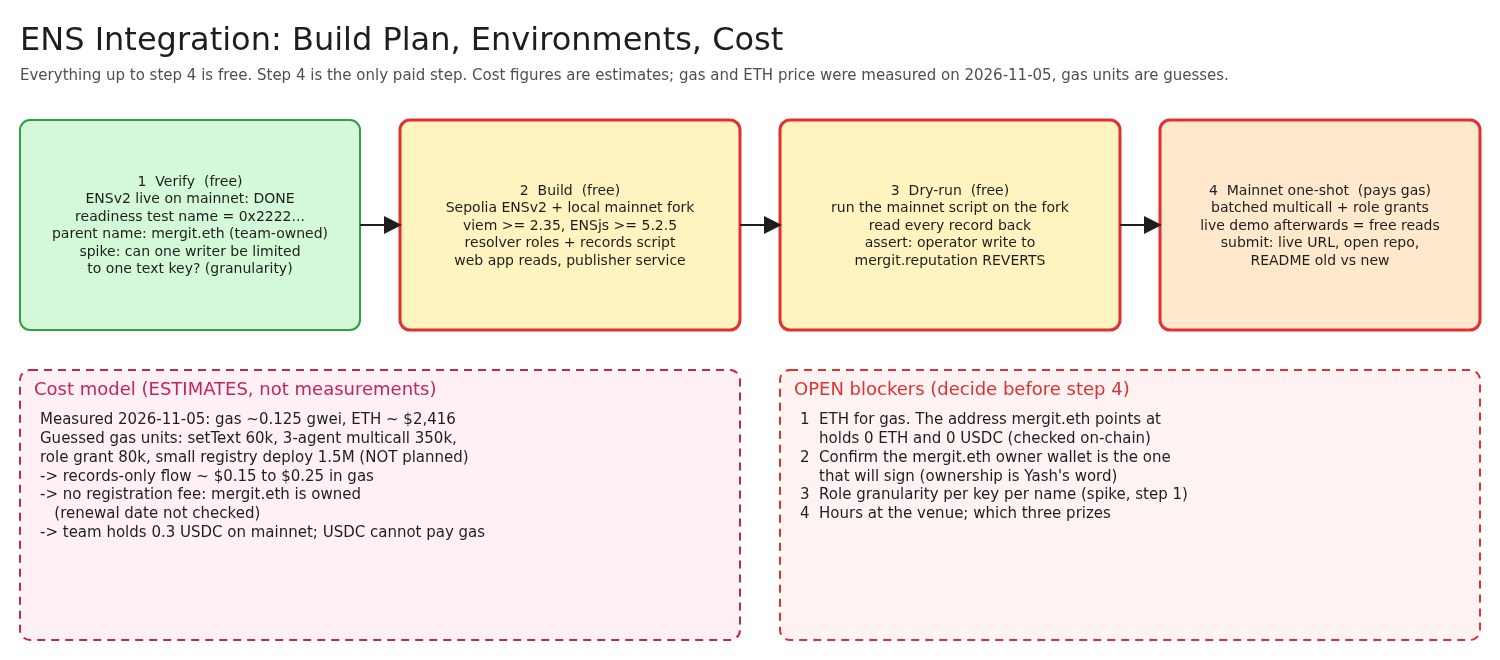
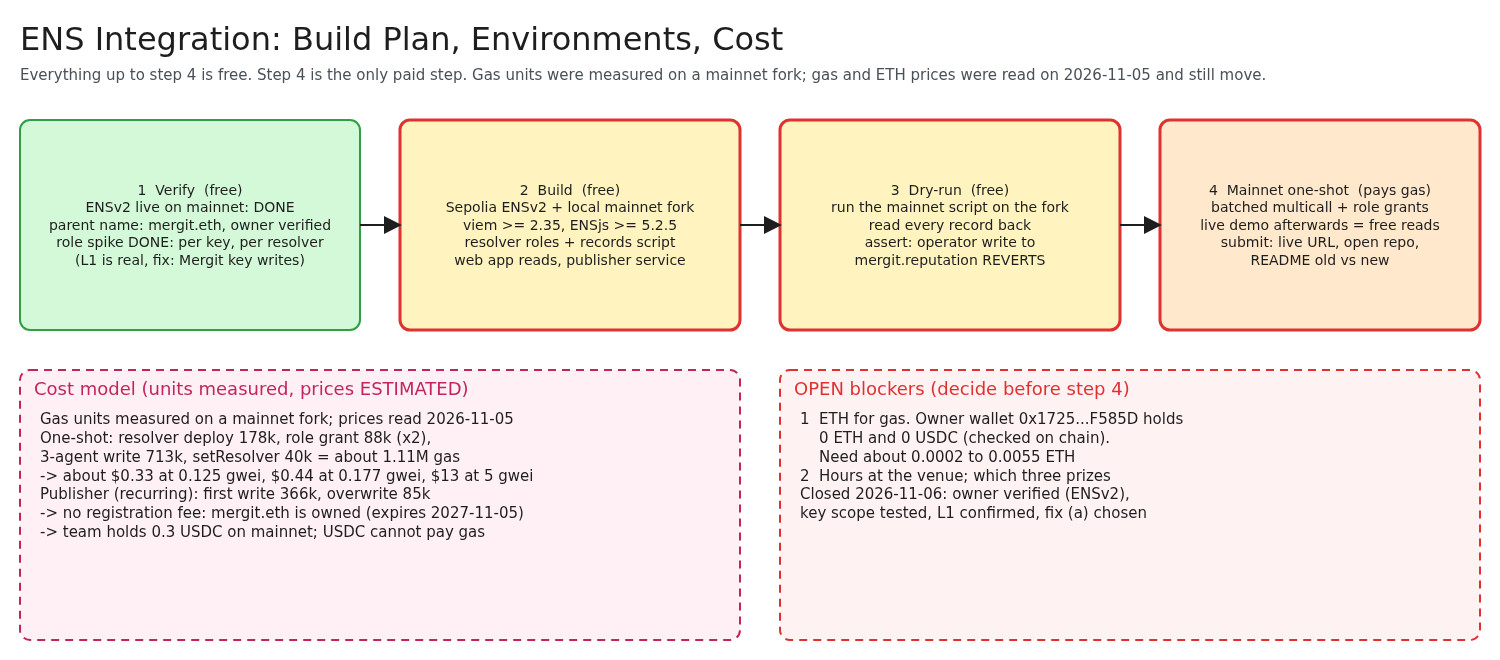
docs(ens): record M0/M1 results; close O1 and O3, confirm L1, choose fix (a)

diff --git a/docs/HLD-ens-integration.md b/docs/HLD-ens-integration.md
@@ -56,11 +56,11 @@ Settlement and receipts stay on Base Sepolia with test USDC. ENS runs on Ethereu
 | # | Decision | Status | Why |
 | --- | --- | --- | --- |
 | E1 | Settlement stays on Base Sepolia, test USDC. ENS is the only mainnet component. | **Locked** | The v0 spec is testnet-only for money. |
-| E2 | Parent name is `mergit.eth`, owned by the team wallet. | **Locked** (per Yash, 2026-11-05). Owner wallet **not verified on chain** by this document | Removes the name-registration fee and the biggest blocker. |
-| E3 | Subnames use the **records-only** design: one Permissioned Resolver on the parent holds every agent's records. No per-agent tokens, no registry contract deployed. | **Proposed** | Cheapest on mainnet, no Solidity of our own to audit, still uses ENSv2 per-record permissions. |
+| E2 | Parent name is `mergit.eth`, owned by the team wallet. | **Locked** (per Yash, 2026-11-05). Owner address read on chain (section 13); that the team holds the key is not checkable on chain | Removes the name-registration fee and the biggest blocker. |
+| E3 | Subnames use the **records-only** design: one Permissioned Resolver on the parent holds every agent's records. No per-agent tokens, no registry contract deployed. | **Proposed**. Resolution tested on a mainnet fork: a record on `coder-0.mergit.eth` resolves through the ENSv2 Universal Resolver once `mergit.eth` points at the resolver (`ens/test/resolution.test.ts`) | Cheapest on mainnet, no Solidity of our own to audit, still uses ENSv2 per-record permissions. |
 | E4 | The registration JSON for each agent is hosted at an editable HTTPS URL. | **Proposed** | The Identity contract has no `setAgentURI`. The URL is fixed at `registerAgent`, so the content must stay editable. |
 | E5 | Reputation on ENS is a **labelled mirror** of `ReputationAnchor`, never the source of truth. Only tier 0 (staked) outcomes are counted. | **Proposed** | Invariants 4 and 6. See section 7. |
-| E6 | One hot key (the "publisher") may write the single record `mergit.reputation`. No other writer can. | **Proposed**, depends on O1 | The enforcement of invariant 4 at the record level. |
+| E6 | One hot key (the "publisher") may write the single record `mergit.reputation`. No other writer can. | **Proposed**. O1 closed: a role limited to the key `mergit.reputation` works (`ens/roles-report.txt`) | The enforcement of invariant 4 at the record level. |
 | E7 | The owned-token registry per agent is a stretch goal, not part of the core plan. | **Proposed** | Roughly $0.45 of gas by estimate, more code, ENS's own tutorial calls its registrar unaudited. |
 | E8 | The ENS part contains no Solidity of ours. | **Proposed** | Follows from E3. |
 | E9 | Agents registered before the URL scheme exists (agent #1 on Base Sepolia, empty URL) are not linked. New agents are registered for the demo. | **Locked** | The Identity contract cannot change a URL after registration. |
@@ -91,8 +91,8 @@ Subnames take the form `<label>.mergit.eth`, for example `coder-0.mergit.eth`. T
 | Key | Standard | Value | Who may write it |
 | --- | --- | --- | --- |
 | `agent-registration[<ERC-7930 Identity address>][<agentId>]` | ENSIP-25 (draft) | `"1"` (any non-empty value counts) | Mergit admin (parent owner) |
-| `agent-context` | ENSIP-26 (draft) | Markdown text describing the agent and how to use it | Operator |
-| `agent-endpoint[web]` | ENSIP-26 (draft) | URL of the agent's profile page | Operator |
+| `agent-context` | ENSIP-26 (draft) | Markdown text describing the agent and how to use it | Mergit editor key, on the operator's request (O9, option (a)) |
+| `agent-endpoint[web]` | ENSIP-26 (draft) | URL of the agent's profile page | Mergit editor key, on the operator's request (O9, option (a)) |
 | `mergit.reputation` | Mergit-defined (not a standard) | JSON mirror, see 6.3 | Publisher key only |
 
 For the Mergit Identity contract on Base Sepolia, the ERC-7930 encoding of `0x72eAc041Ee897fF0385022639452fE08Dcd4B7D6` on chain 84532 is:
@@ -127,11 +127,12 @@ The full key for agent `N` is `agent-registration[0x0001000003014a341472eac041ee
 
 ## 7. Permission model and invariants
 
-Three kinds of account touch the resolver. ENSv2 Enhanced Access Control grants roles per resolver and, according to the ENS docs, can scope a role to a specific text key.
+Four kinds of account touch the resolver. ENSv2 Enhanced Access Control grants roles per resolver and, according to the ENS docs, can scope a role to a specific text key.
 
 | Account | May write | Must not write |
 | --- | --- | --- |
-| Operator (agent owner) | `agent-context`, `agent-endpoint[...]` | `mergit.reputation`, `agent-registration[...]` |
+| Operator (agent owner) | Nothing directly. Asks Mergit to edit (O9, option (a)) | Every record |
+| Mergit editor key | `agent-context`, `agent-endpoint[...]`, after checking the requester owns the agent | `mergit.reputation`, `agent-registration[...]` |
 | Mergit admin (`mergit.eth` owner) | `agent-registration[...]`, role grants | Day-to-day reputation |
 | Publisher key | `mergit.reputation` only | Everything else |
 
@@ -144,20 +145,22 @@ How this maps to the repository invariants:
 | 7. No credential reachable from a model-populated tool argument | The publisher key lives with the chain gateway's secrets, resolved through the broker, never in a place a prompt reaches. Where it is stored is **Open** (O7). |
 | "No number presented as measured" | Section 6.3. Counts, block number, labelled mirror. |
 
-**Open (O1):** the ENS docs say roles can be scoped "to all records or specific text keys", and that to limit a writer to certain names you use a separate resolver instance. The exact granularity (per key across all names on a resolver, or per key per name) is not fully specified in the pages read. The design needs "publisher can write only `mergit.reputation`". This is the first spike. If it cannot be done, the fallback is a second resolver instance dedicated to the publisher's record, which changes the layout in the diagram.
+**Closed (O1), tested on a mainnet fork on 2026-11-06:** roles on the deployed resolver are scoped **per text key and per resolver, not per name**. The publisher can be limited to the key `mergit.reputation` and then writes it on every name, and nothing else (`ens/test/roles.test.ts`, evidence in `ens/roles-report.txt`). The fallback of a second resolver for the publisher is not needed. The same per-resolver scope is why L1 is real. The API of the deployed resolver, taken from its verified source on Sourcify, takes DNS-encoded names (`setText(bytes name, string key, string value)`) and grants key roles with `grantSetterRoles(bytes setter, address account)`. The GitHub `main` source of `PermissionedResolver` (`authorizeTextRoles`, per-name roles) is a different design (its relation to the deployed version was not checked) and is **not** what is deployed on mainnet.
 
 ### 7.1 Known limitations
 
 The current design does not close these. They are stated here so nobody reads it as stronger than it is.
 
-**L1. One operator may be able to edit another operator's agent (Open, not tested).** All agent names share one resolver (E3). The table above lets each operator write `agent-endpoint[...]` and `agent-context`. If ENS scopes that permission to the key across the whole resolver, and not to one name (the granularity question in O1), then operator Alice, who owns `coder-0`, could also change the endpoint of `coder-1`, which belongs to Bob. She could point Bob's agent at her own server and take his work. That is the false modification this layer is meant to prevent. The same reasoning applies to `agent-context`. Two ways to close it (decision O9):
+**L1. One operator can edit another operator's agent (Confirmed on a mainnet fork, 2026-11-06).** All agent names share one resolver (E3). ENS scopes a key role to the whole resolver, not to one name. The test `L1: a key role is per resolver, not per name` shows operator Alice, given `agent-endpoint[web]`, overwriting the endpoint of `coder-1`, which belongs to Bob. She could point Bob's agent at her own server and take his work. That is the false modification this layer is meant to prevent. The same reasoning applies to `agent-context`. Two ways to close it:
 
 - (a) Simplest: operators get no direct edit permission. They ask Mergit, and Mergit's key writes the record after checking that the requester owns that agent (`operatorOf(N)` on Base; the function name comes from the design note, so confirm it against `Identity.sol`).
 - (b) Give each operator their own resolver. This needs real registered subnames, so it is more work.
 
-Test first. It is one free test on Sepolia: Alice tries to edit Bob's agent, and the test expects the edit to fail. If it fails, nothing needs fixing and L1 is closed.
+**Decision (O9): option (a).** Operators hold no role. Mergit's editor key holds the two keys `agent-context` and `agent-endpoint[web]` and writes after checking ownership on Base. The test `option (a): operators hold no role and Mergit's key writes every name` shows operators are refused and Mergit's key succeeds. Option (b) is not taken: it needs real registered subnames and more work. What is still to build is the ownership check and the request flow (issue #69).
 
-**L2. After an agent is transferred, ENS can be wrong (fix proposed in 8.4).** Until 8.4 part 1 is built, the web app can show "two-way verified" for an agent whose Base owner has changed. Until part 2 is built, the previous owner keeps edit permission over the records. If 8.4 is not built, say so openly in the README. A wrong trust badge is worse than none.
+The test has been run, on a mainnet fork, and the edit did **not** fail: L1 is real (`L1: a key role is per resolver, not per name`). The Sepolia run is not needed.
+
+**L2. After an agent is transferred, ENS can be wrong (fix proposed in 8.4).** Until 8.4 part 1 is built, the web app can show "two-way verified" for an agent whose Base owner has changed. With option (a) the previous owner holds no ENS permission to begin with, so what part 2 must do is make Mergit's ownership check use the current Base owner, so the previous owner's edit requests are refused and the records are refreshed. If 8.4 is not built, say so openly in the README. A wrong trust badge is worse than none.
 
 **L3. Agent data has no per-user access control (future fix, Proposed).** The agent ledgers are readable by everyone, which is intended. A future fix would limit access to an agent's full data to the user, while the ledgers stay public. Any such limit must still give an auditor or a bonded challenger what the paper's tiered disclosure promises them (totals at settlement, an evidence subset at audit, the full trajectory under bonded challenge). Who "the user" is (the agent's owner, the requester of a task, or both) is not decided (O11). Nothing here is built.
 
@@ -194,12 +197,12 @@ This is the lifecycle around the two flows above. Names persist; selection is no
 
 ### 8.4 When an agent is sold or transferred (Proposed)
 
-**The problem.** Agents on Base are NFTs, so they can be transferred. Say Alice transfers agent #5 to Carol. Base now says Carol owns agent #5. ENS still holds Alice's old records, and Alice may still have edit permission. The web app would still show "two-way verified", because the two names still match, but the information is stale and Alice still has control.
+**The problem.** Agents on Base are NFTs, so they can be transferred. Say Alice transfers agent #5 to Carol. Base now says Carol owns agent #5. ENS still holds Alice's old records. The web app would still show "two-way verified", because the two names still match, but the information is stale, and Mergit's editor key would still honour Alice's edit requests if its ownership check used old data.
 
 **The fix, in two parts:**
 
 1. **The web app also checks** whether the current owner on Base is the same as the operator on ENS. If not, it shows "owner changed, not verified" and no tick.
-2. **On a transfer, Mergit also updates the records** and removes Alice's permission.
+2. **On a transfer, Mergit also updates the records**, and its ownership check for edit requests uses the current Base owner, so Alice's requests are refused.
 
 Part 1 stops the wrong badge. Only part 2 takes Alice's control away. Until part 2 is built, limitation L2 applies.
 
@@ -217,23 +220,24 @@ Source: [`diagrams/14-ens-build-plan-and-environments.excalidraw`](diagrams/14-e
 
 | Stage | Where | Cost | What it proves |
 | --- | --- | --- | --- |
-| 1 Verify | Mainnet reads | Free | ENSv2 resolution is live on mainnet (done, see section 13). Role granularity spike (O1). |
+| 1 Verify | Mainnet reads | Free | ENSv2 resolution is live on mainnet (done, see section 13). Role granularity spike (O1, done). |
 | 2 Build | Sepolia ENSv2 and a local mainnet fork | Free. Sepolia needs faucet ETH and free MockUSDC | Scripts, roles, records, web reads, publisher. |
 | 3 Dry-run | The mainnet fork | Free | The exact mainnet script, every record read back, operator write to `mergit.reputation` reverts. |
 | 4 Mainnet one-shot | Ethereum mainnet | Gas only | The real, live integration the prize requires. Reads afterwards are free. |
 
-### 9.1 Cost model (estimates, not measurements)
+### 9.1 Cost model (gas units measured on a fork, prices estimated)
 
-- Measured on 2026-11-05: mainnet gas about 0.125 to 0.137 gwei, ETH about $2,416 (Chainlink ETH/USD feed on mainnet).
-- Gas units are **guesses**: one `setText` 60k, a three-agent batched write 350k, a role grant 80k. A JSON text record of about 150 bytes may cost more than 60k, so treat the cheapest case as optimistic.
-- At those figures the records-only flow is roughly **$0.15 to $0.25 in gas**. A small registry deployment (not planned) would be about $0.45.
+- Market read on 2026-11-05 (about 20:40 UTC): mainnet gas 0.125 to 0.177 gwei; ETH $2,416 earlier and $2,245.92 on the Chainlink feed later (`ens/gate-report.md`).
+- Gas units are **measured on a mainnet fork** at block 26351161 (`ens/gas-report.json`): deploy the resolver proxy 178k, one role grant 88k (two needed), a batched write of three agents and nine records 713k, pointing `mergit.eth` at the resolver 40k. These four make up the one-shot total of about **1.11M gas**. The publisher's `mergit.reputation` writes are **not** in that total: the first write of a realistic 328-byte record to a new name costs 366k, and an overwrite of an existing record 85k. The earlier guesses (60k for a `setText`, 350k for the batch, 80k for a grant) were too low: the record write is about six times the guess, the batch about twice, the grant about right.
+- At 0.125 gwei and $2,416 that is about **$0.33**. At 0.177 gwei and $2,245.92 it is about **$0.44**. A 5 gwei spike would be about **$13**. The gas units are exact for this code path on the fork; the price still moves, so these stay estimates until the mainnet run. A small registry deployment is not planned.
+- ETH needed: about 0.0002 ETH at today's gas and about 0.0055 ETH at 5 gwei. A balance of 0.01 ETH would cover the spike case (a suggested margin, not a measurement).
 - Gas can spike. These figures are one reading, taken once.
-- No registration fee is expected because `mergit.eth` is already owned. The renewal date was **not checked**; check it in the ENS app.
+- No registration fee is expected because `mergit.eth` is already owned. The name expires on 2027-11-05 (read on chain, section 13), so no renewal is due during the event.
 
 ### 9.2 Funding (Open)
 
 - The team holds about 0.3 USDC on Ethereum mainnet. **USDC cannot pay gas.** A swap needs ETH first.
-- The address that `mergit.eth` resolves to (`0x1725a458a3Fc8BB3d7460d262c7F94766FEF585D`) held **0 ETH and 0 USDC** when checked on 2026-11-05. It may not be the funded wallet.
+- The address that `mergit.eth` resolves to (`0x1725a458a3Fc8BB3d7460d262c7F94766FEF585D`) held **0 ETH and 0 USDC** when checked on 2026-11-05. It is also the owner of `mergit.eth` (section 13), so this is the wallet that has to be funded.
 - Options, none verified: a gasless swap on CoW Swap, a small ETH loan from a teammate, or a mentor. See O2.
 - Base Sepolia faucet funds cover the Mergit side only and have no value on mainnet.
 
@@ -241,32 +245,34 @@ Source: [`diagrams/14-ens-build-plan-and-environments.excalidraw`](diagrams/14-e
 
 | # | Risk | Likelihood and effect | Mitigation |
 | --- | --- | --- | --- |
-| R1 | Role scoping cannot limit the publisher to one key | Unknown. Breaks E6 | Spike first (O1). Fallback: dedicated resolver instance. |
+| R1 | Role scoping cannot limit the publisher to one key | **Closed.** Tested: the key scope works | None needed. |
 | R2 | No ETH on mainnet when it is time to write | High, given 0 ETH seen. Blocks stage 4 | Resolve O2 early. Keep the mainnet step minimal. |
 | R3 | Mainnet write fails and wastes the small budget | Medium | Dry-run the exact script on a fork. Check the owner wallet first. |
-| R4 | `mergit.eth` is not controlled by the wallet the team can sign with | Unknown. Blocks everything | Verify the owner on chain before stage 2 (O3). |
+| R4 | `mergit.eth` is not controlled by the wallet the team can sign with | **Owner verified on chain** (O3 closed); that the team holds that key is not checkable | Sign one test message with the owner key before stage 4. |
 | R5 | ENSIP-25 and ENSIP-26 are drafts and may change | Medium | Pin the key format in one place. Say "draft" in the README. |
 | R6 | The reputation mirror is read as a score or a measurement | Medium. Over-claiming is the failure this project is about | Keep `mirror: true` and the note field. UI labels it "mirror of chain data". |
 | R7 | Publisher key compromise | Low to medium. Writes a false mirror, cannot touch funds | Role limited to one record. Mirror is labelled. Chain remains the source of truth. |
+| R13 | Mergit editor key compromise or a bug in its ownership check (option (a)) | Medium. One key can redirect **every** agent's `agent-endpoint[web]` and `agent-context`, which is the L1 attack concentrated in one place | Role limited to those two keys (tested). The ownership check (`operatorOf(N)` on Base) and request flow are **not built yet** (issue #69). Keep the key separate from the publisher key. |
+| R14 | Recurring mainnet gas for the publisher | Low at today's gas, higher in a spike. An overwrite of `mergit.reputation` costs about 85k gas: about $0.03 at 0.177 gwei and $2,246, about $1 at 5 gwei, per write | Batch updates per agent per interval instead of one write per outcome. Measured in `ens/gas-report.json`. |
 | R8 | Two chains confuse judges | Medium | State it plainly: agents and money on Base Sepolia, names on Ethereum mainnet. |
 | R9 | Registration JSON host goes away and the two-way link breaks | Low | Host on infrastructure the team already runs. The check fails visibly, not silently. |
 | R10 | Time. The event runs 5 to 7 November, and the team's hours are not known | High | Order work by dependency (section 12). Cut the stretch goals first. |
-| R11 | One operator edits another operator's agent record (L1) | Unknown, not tested. Redirects an agent's endpoint and takes its work | Run the Sepolia test first. If it does not fail, apply fix (a) or (b) in 7.1. |
+| R11 | One operator edits another operator's agent record (L1) | **Confirmed real.** Redirects an agent's endpoint and takes its work | Fix (a) chosen: operators hold no role, Mergit's editor key writes after an ownership check (7.1, issue #69). |
 | R12 | A transferred agent keeps showing as verified, or its previous owner keeps edit permission (L2) | Medium. A wrong trust badge | Section 8.4. If not built, state it as a known limitation. |
 
 ## 11. Open decisions
 
 | # | Question | Blocks |
 | --- | --- | --- |
-| O1 | Can a writer be limited to a single text key, per name or per resolver? | E6, the permission model |
-| O2 | Where does the mainnet ETH come from? | Stage 4 |
-| O3 | Which wallet owns `mergit.eth`, is it the one that will sign, and when does the name expire? | Stage 2 onward |
+| O1 | Can a writer be limited to a single text key, per name or per resolver? **Closed 2026-11-06:** per key, per resolver (section 7). | Done |
+| O2 | Where does the mainnet ETH come from? The owner wallet `0x1725a458a3Fc8BB3d7460d262c7F94766FEF585D` holds 0 ETH and 0 USDC (checked on chain, `ens/gate-report.md`). The one-shot needs about 0.0002 to 0.0055 ETH (9.1). No funding route chosen yet. | Stage 4 |
+| O3 | Which wallet owns `mergit.eth`, is it the one that will sign, and when does the name expire? **Closed 2026-11-06, verified on chain:** owner `0x1725a458a3Fc8BB3d7460d262c7F94766FEF585D` (also the address the name resolves to), registered in the ENSv2 `ETHRegistry`, expires 2027-11-05. Whether the team controls that key is not checkable on chain. | Done |
 | O4 | How many prizes will the team enter, and does ENS compete with another track for the same hours? | Scope |
 | O5 | Where is the registration JSON hosted (the `mergit.site` Render site, or the research site on GitHub Pages)? | Step 1 of the flow |
 | O6 | Is the publisher TypeScript, or Rust beside the chain gateway? | Section 5 |
 | O7 | Where does the publisher key live, and how is it resolved without a model-reachable path? | Invariant 7 |
 | O8 | Does Continuity Track status let the project also enter the open "Best Use of ENSv2" track ($7,000, Sepolia allowed)? Ask the ENS mentors. | Fallback path |
-| O9 | Which fix closes L1, (a) writes through Mergit or (b) a resolver per operator? Decide after the Sepolia test. | Permission model, R11 |
+| O9 | Which fix closes L1? **Decided 2026-11-06: (a), writes through Mergit** (7.1). | Done |
 | O10 | How does the web app read the operator on the ENS side, and how does Mergit learn of a transfer? | Section 8.4, L2 |
 | O11 | Who is "the user" for access to an agent's full data, and what exactly stays public in the ledgers? | L3, a future fix |
 
@@ -276,8 +282,8 @@ No clock times: the team's available hours are unknown. Order is by dependency.
 
 | # | Milestone | Done when |
 | --- | --- | --- |
-| M0 | Verify ownership and funding (O2, O3) | The owner wallet of `mergit.eth` is read from chain, a funding route exists |
-| M1 | Role spike (O1) | A test on the fork shows the publisher writes `mergit.reputation` and an operator write to it reverts |
+| M0 | Verify ownership and funding (O2, O3) | The owner wallet of `mergit.eth` is read from chain, a funding route exists. **Ownership done 2026-11-06; funding route still open (O2)** |
+| M1 | Role spike (O1) | A test on the fork shows the publisher writes `mergit.reputation` and an operator write to it reverts. **Done 2026-11-06** (`ens/test/roles.test.ts`) |
 | M2 | Registration JSON and agent registration | A new agent registered on Base Sepolia with the editable URL, JSON edited with its `agentId` |
 | M3 | Admin script on the fork | Records written, read back through the Universal Resolver, matching expectations |
 | M4 | Web app reads and two-way check | The page resolves the name live and shows verified or the exact failure |
@@ -296,7 +302,7 @@ Stretch, only if everything above is done: the owned-token registry (E7), a DNS 
 - [ ] README labels ENSIP-25 and ENSIP-26 as drafts and the reputation record as a mirror
 - [ ] A test shows an operator write to `mergit.reputation` reverts
 - [ ] A test shows a tier 1 outcome does not change `mergit.reputation`
-- [ ] A test shows operator Alice cannot edit operator Bob's agent record (L1, Sepolia)
+- [ ] A test shows operator Alice cannot edit operator Bob's agent record (L1, option (a); the fork test `option (a)` shows operators are refused, the ownership check is issue #69)
 - [ ] A test shows the web app shows "owner changed, not verified" after an agent is transferred (8.4)
 - [ ] README lists the known limitations in 7.1 that are still open
 
@@ -306,13 +312,16 @@ Stretch, only if everything above is done: the owned-token registry (E7), a DNS 
 | --- | --- | --- |
 | ENSv2 resolution is live on Ethereum mainnet | The ENS readiness page's test name `ur.integration-tests.eth` resolved to `0x2222…2222` on a mainnet RPC on 2026-11-05 | **Verified** by query |
 | Prize rules and amounts | ETHGlobal Mumbai prize page, read through a summariser, plus the team's screenshot | **Read, not independently re-checked** |
-| `mergit.eth` is owned by the team | Stated by Yash on 2026-11-05. It resolves to an address on mainnet. The old v1 registrar returns "not registered", which is consistent with a v2-era registration but does not prove who owns it | **Stated, not verified** |
+| `mergit.eth` is owned by the team | Read on chain on 2026-11-06: ENSv2 `ETHRegistry.findOwner` = `0x1725a458a3Fc8BB3d7460d262c7F94766FEF585D`, status REGISTERED, expiry 2027-11-05. ENSv1 holds nothing. The ENS app's My Names page, as shown in screenshots the team shared (not stored in the repo), lists it under V2 with Owner and Manager. Reproduce with `npm run gate` in `ens/` | **Verified** for the owning address. That the team holds the key is not checkable on chain |
 | Identity has no URL setter | Read from `mergit-contracts/src/Identity.sol` | **Verified** from source |
 | `OutcomeRecorded` carries `tier` | Read from `ReputationAnchor.sol` and its interface | **Verified** from source |
 | Base Sepolia addresses | `mergit-contracts/deployments/base-sepolia.json`. Not checked on chain | **Read from file** |
 | Gas and ETH price | Public mainnet RPC and Chainlink feed, 2026-11-05 | **Measured once** |
-| Role scoping per text key | ENS docs (Issuing Subnames page) | **Read, granularity unclear** |
-| One operator can edit another operator's record under a shared resolver (L1) | Reasoned from the docs' wording. No test has been run | **Not tested** |
+| Role scoping | Deployed `PermissionedResolverImpl` on a mainnet fork (`ens/test/roles.test.ts`) | **Tested**: per key, per resolver, not per name |
+| One operator can edit another operator's record under a shared resolver (L1) | Test `L1: a key role is per resolver, not per name`, mainnet fork, 2026-11-06 | **Confirmed** |
+| Records-only subnames resolve | `ens/test/resolution.test.ts`: a record on `coder-0.mergit.eth` resolves through UniversalResolverV2 after `setResolver` on `mergit` (fork) | **Tested** |
+| Gas units of the one-shot | `ens/gas-report.json`, receipts from a mainnet fork at block 26351161 | **Measured** (prices still estimates) |
+| Deployed resolver API | Sourcify exact-match verified ABI for `0x565b0f456a04ac9b48758190e90030623cff57c5`, bytecode selectors checked | **Verified**. Differs from GitHub `main` (see section 7) |
 | ENSIP-25 and ENSIP-26 key formats | ENS docs, both marked draft | **Read** |
 | ENS registrar fee for new `.eth` names | Not found in the docs read | **Unknown** |
 
